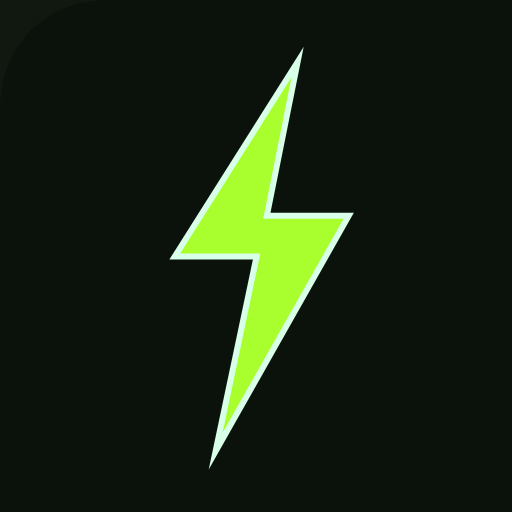
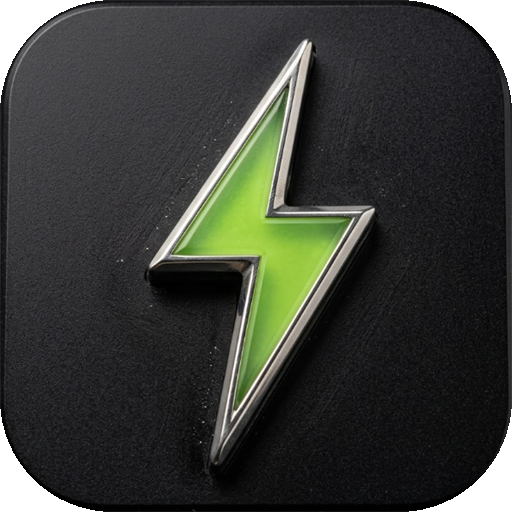
feat: ajusta icone do projeto

diff --git a/apps/admin/index.html b/apps/admin/index.html
@@ -2,7 +2,7 @@
 <html lang="en">
   <head>
     <meta charset="UTF-8" />
-    <link rel="icon" type="image/svg+xml" href="/favicon.svg" />
+    <link rel="icon" type="image/png" href="/new-image.png" />
     <link rel="apple-touch-icon" href="/apple-touch-icon.png" />
     <meta name="viewport" content="width=device-width, initial-scale=1.0" />
     <meta name="theme-color" content="#a9ff2e" />

diff --git a/apps/admin/vite.config.ts b/apps/admin/vite.config.ts
@@ -46,7 +46,7 @@ export default defineConfig({
     tailwindcss(),
     VitePWA({
       registerType: 'autoUpdate',
-      includeAssets: ['favicon.svg', 'apple-touch-icon.png'],
+      includeAssets: ['new-image.png', 'apple-touch-icon.png'],
       manifest: {
         id: '/',
         name: 'Body Health Pro',